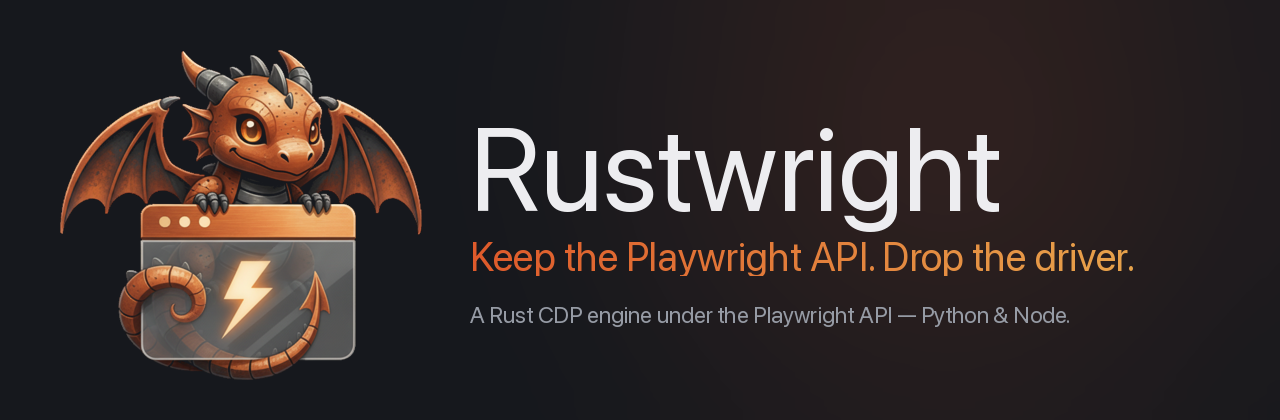
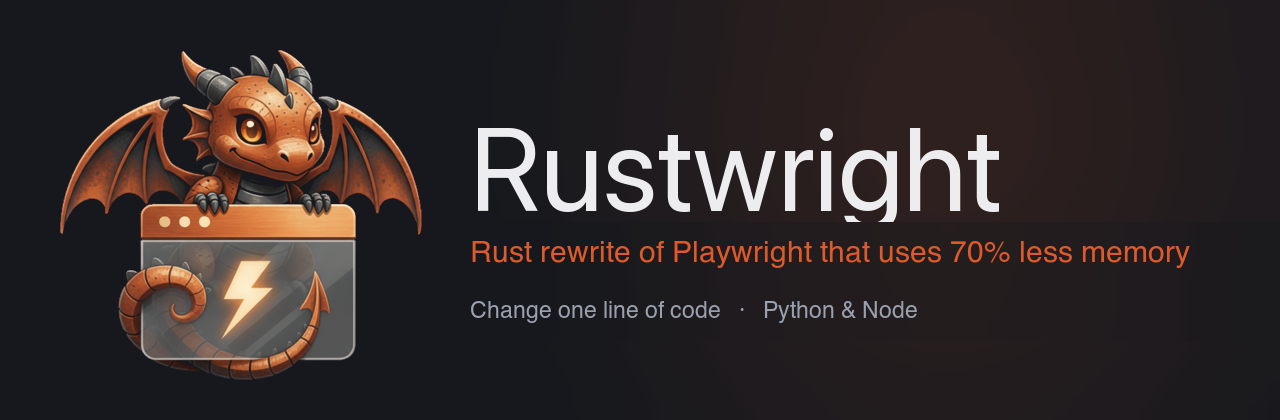
Sync rustwright-cloud changes to rustwright (#40) (#65)
https://github.com/Skyvern-AI/rustwright-cloud/pull/40

---------

Changed region(s): [[0.3438, 0.5262, 0.9375, 0.65], [0.3438, 0.7119, 0.8438, 0.7738]]

diff --git a/README.md b/README.md
@@ -1,6 +1,6 @@
 <div align="center">
 
-<img src="docs/assets/banner.png" alt="Rustwright — a Rust rewrite of Playwright" width="840" />
+<img src="docs/assets/banner.png" alt="Rustwright — a Rust rewrite of Playwright that uses 70% less memory" width="840" />
 
 **A Rust rewrite of Playwright**, a popular browser automation library. Rustwright is interoperable with Playwright but runs on an in-process Rust CDP engine — **[2.55× faster](#benchmarks)** and **[70% less memory](BENCHMARK.md#client-memory-form-fill-diagnostic)** (no Node driver), with no Playwright automation fingerprint. Alpha; Chromium-only.
 